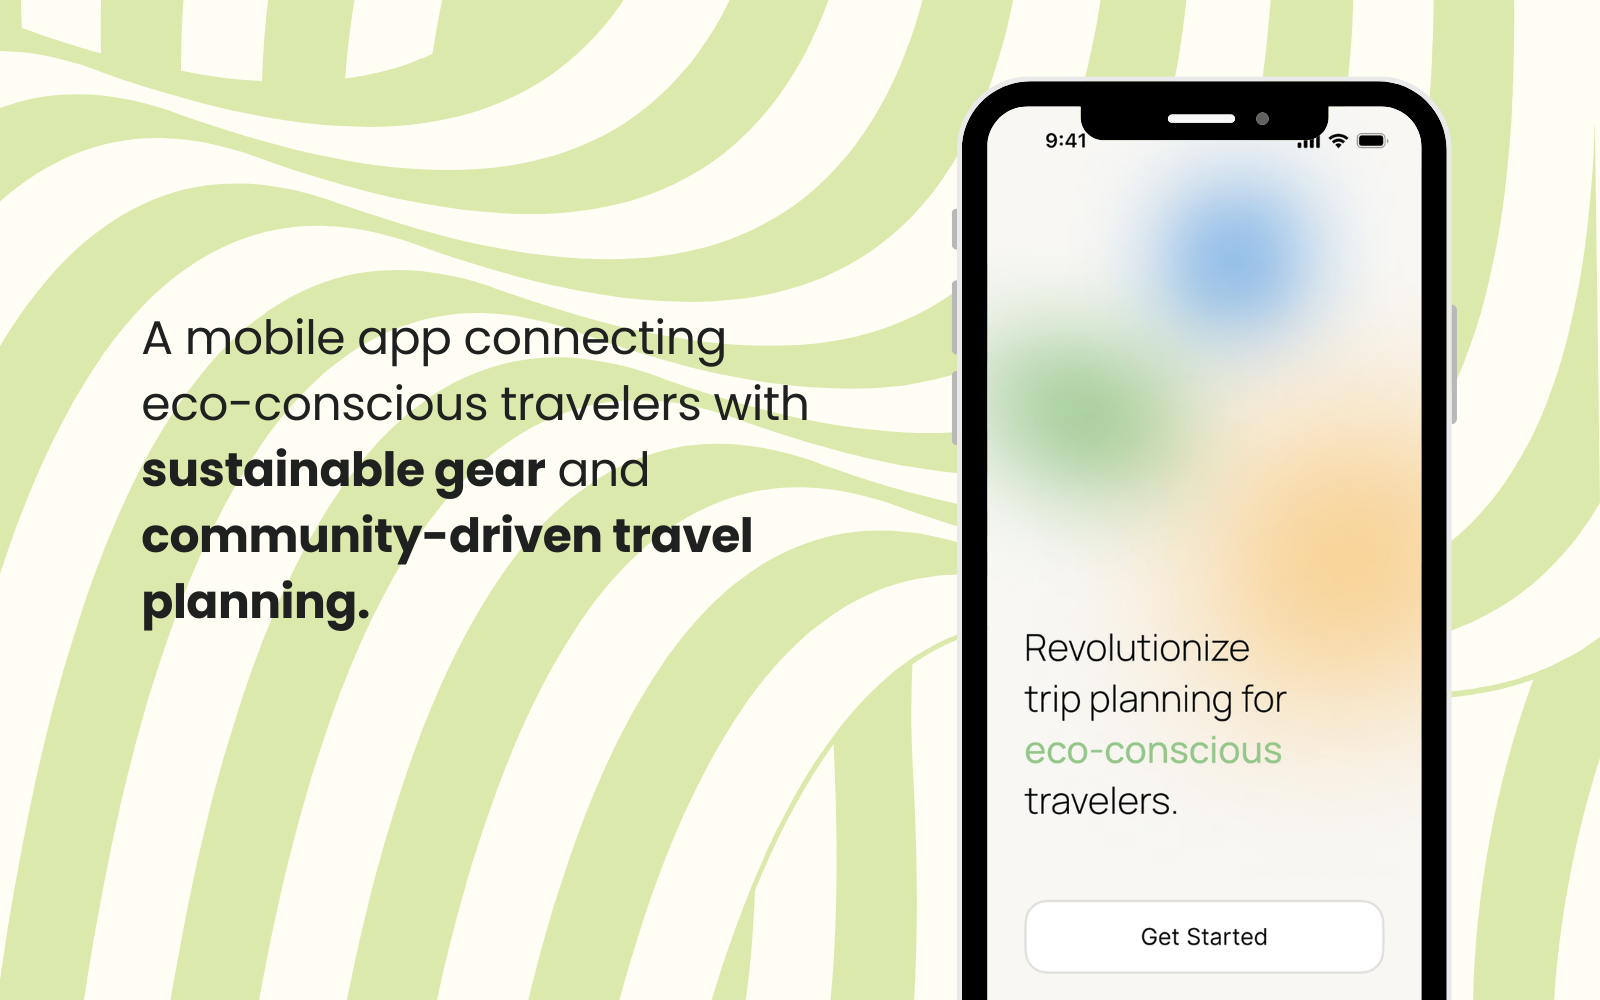
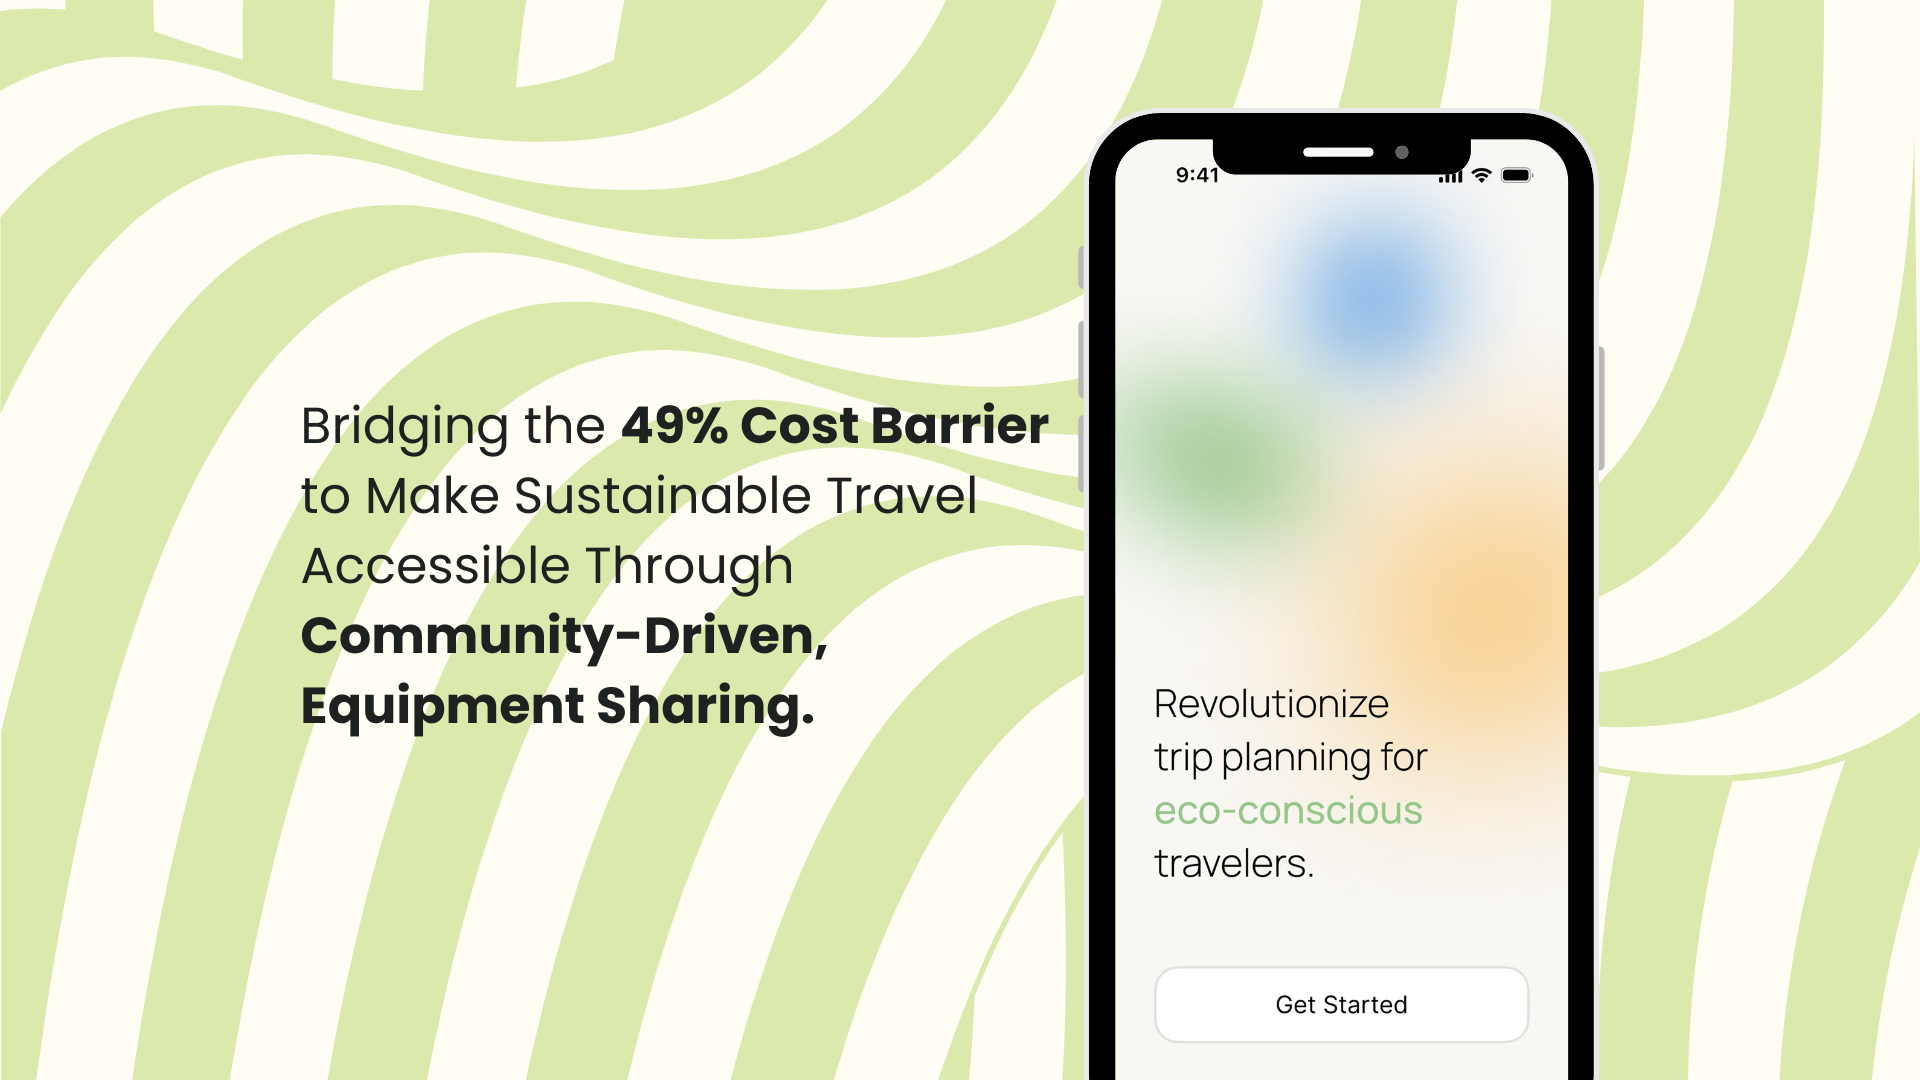
fixed Back to Work button

diff --git a/index.html b/index.html
@@ -140,21 +140,30 @@ nav.scrolled{background:rgba(233,230,224,.92);backdrop-filter:blur(14px);-webkit
 
 /* ── WORKS ── */
 #works{border-top:1px solid var(--border);padding:clamp(3rem,6vw,6rem) 2.5rem clamp(2rem,4vw,4rem);}
-.works-header{margin-bottom:clamp(3rem,5vw,5rem);}
+.works-header{margin-bottom:clamp(2rem,4vw,3rem);display:flex;align-items:center;justify-content:space-between;gap:1.5rem;flex-wrap:wrap;}
 .works-header-label{font-family:var(--serif);font-style:italic;font-size:clamp(1.3rem,2.2vw,2rem);border-bottom:1px solid var(--red);display:inline-block;padding-bottom:2px;}
-.project-row{border-top:1px solid var(--border);display:grid;grid-template-columns:1fr auto;align-items:center;gap:2rem;padding:clamp(1.4rem,2.5vw,2.2rem) clamp(1.5rem,3vw,3rem) clamp(1.4rem,2.5vw,2.2rem) clamp(1.2rem,2.5vw,2rem);text-decoration:none;position:relative;overflow:hidden;}
-.project-row:last-child{border-bottom:1px solid var(--border);}
-.project-row-wash{position:absolute;inset:0;background:var(--red);transform:scaleX(0);transform-origin:left center;transition:transform 0.75s cubic-bezier(0.4,0,0.2,1);pointer-events:none;z-index:0;}
-.project-row:hover .project-row-wash{transform:scaleX(1);}
-.project-row-left{display:flex;flex-direction:column;gap:.4rem;position:relative;z-index:1;}
+.works-header-actions{display:flex;align-items:center;gap:1rem;flex-wrap:wrap;}
+.works-hint{font-family:var(--sans);font-size:.75rem;letter-spacing:.12em;text-transform:uppercase;color:var(--dim);}
+.works-see-all{font-family:var(--sans);font-size:.82rem;font-weight:500;letter-spacing:.08em;text-transform:uppercase;background:none;border:none;border-bottom:1px solid rgba(224,58,14,.35);color:var(--red);padding:0 0 2px;cursor:none;transition:opacity .2s ease,border-color .2s ease;}
+.works-see-all:hover{opacity:.7;border-color:var(--red);}
+.works-rail{display:grid;grid-auto-flow:column;grid-auto-columns:minmax(450px,45vw);gap:4rem;overflow-x:auto;overflow-y:visible;scroll-snap-type:x proximity;padding-bottom:.2rem;scrollbar-width:thin;scrollbar-color:rgba(224,58,14,.35) transparent;}
+.works-rail::-webkit-scrollbar{height:8px;}
+.works-rail::-webkit-scrollbar-thumb{background:rgba(224,58,14,.3);border-radius:999px;}
+.works-rail.show-all{grid-auto-flow:row;grid-auto-columns:unset;grid-template-columns:repeat(3,minmax(0,1fr));overflow:visible;}
+.project-card{border:1px solid var(--border);display:flex;flex-direction:column;min-height:100%;min-height:530px;padding:1.5rem;text-decoration:none;position:relative;overflow:hidden;background:rgba(255,255,255,.4);scroll-snap-align:start;transition:border-color .3s ease,transform .35s var(--ease-out),box-shadow .35s var(--ease-out);}
+.project-row-wash{position:absolute;inset:0;background:var(--red);transform:translateY(100%);transition:transform 0.65s cubic-bezier(0.4,0,0.2,1);pointer-events:none;z-index:0;}
+.project-card:hover .project-row-wash{transform:translateY(0);}
+.project-row-left{display:flex;flex-direction:column;gap:.4rem;position:relative;z-index:1;flex:1;padding-top:1rem;}
 .project-meta{font-family:var(--sans);font-size:.68rem;font-weight:400;letter-spacing:.1em;text-transform:uppercase;color:var(--dim);transition:color 0.3s ease;}
-.project-title{font-family:var(--display);font-size:clamp(3rem,7vw,8rem);letter-spacing:.01em;line-height:.88;transition:color 0.3s ease,letter-spacing .35s var(--ease-out);}
-.project-desc{font-family:var(--sans);font-size:clamp(.85rem,1.2vw,1rem);font-weight:300;line-height:1.6;max-width:40ch;margin-top:.3rem;opacity:0;transform:translateY(6px);transition:opacity .35s ease .1s,transform .35s var(--ease-out) .1s,color 0.3s ease;}
-.project-row:hover .project-desc{opacity:1;transform:translateY(0);}
-.project-row:hover .project-meta,.project-row:hover .project-title,.project-row:hover .project-desc,.project-row:hover .project-arrow{color:var(--bg);}
-.project-row-right{display:flex;flex-direction:column;align-items:flex-end;gap:.8rem;flex-shrink:0;position:relative;z-index:1;}
-.project-arrow{font-family:var(--sans);font-size:.72rem;letter-spacing:.1em;text-transform:uppercase;color:var(--dim);transition:transform .3s var(--ease-spring),color 0.3s ease;}
-.project-row:hover .project-arrow{transform:translateX(6px);}
+.project-title{font-family:var(--display);font-size:clamp(2.4rem,5vw,4.8rem);letter-spacing:.01em;line-height:.9;transition:color 0.3s ease,letter-spacing .35s var(--ease-out);}
+.project-desc{font-family:var(--sans);font-size:clamp(.85rem,1.2vw,1rem);font-weight:300;line-height:1.6;max-width:40ch;margin-top:.3rem;color:var(--red);transition:color 0.3s ease;}
+.project-card:hover .project-meta,.project-card:hover .project-title,.project-card:hover .project-desc{color:var(--bg);}
+.project-row-right{display:flex;flex-direction:column;align-items:flex-start;gap:.8rem;position:relative;z-index:1;}
+.project-thumb{width:100%;aspect-ratio:4/3;border:1px solid var(--border);overflow:hidden;background:linear-gradient(145deg,#f7f4ef,#ebe5dc);box-shadow:0 12px 28px rgba(0,0,0,.08);transition:transform .45s var(--ease-out),border-color .3s ease,box-shadow .3s ease;}
+.project-thumb img{width:100%;height:100%;object-fit:cover;object-position:center;transition:transform .55s var(--ease-out);}
+.project-card:hover{transform:translateY(-6px);border-color:rgba(224,58,14,.22);box-shadow:0 20px 44px rgba(224,58,14,.12);}
+.project-card:hover .project-thumb{border-color:rgba(233,230,224,.35);box-shadow:0 18px 36px rgba(0,0,0,.15);}
+.project-card:hover .project-thumb img{transform:scale(1.04);}
 
 /* ── TOOLS — icon strip ── */
 #tools{border-top:1px solid var(--border);}
@@ -292,8 +301,8 @@ footer{border-top:1px solid var(--border);padding:1.8rem 2.5rem;display:flex;jus
   .tools-right{border-left:none;border-top:1px solid var(--border);}
   .hero-line,.hero-line-type{font-size:20vw;}
   .hero-photo{width:60%;}
-  .project-row{grid-template-columns:1fr;}
-  .project-row-right{align-items:flex-start;}
+  .works-rail{grid-auto-columns:minmax(300px,80vw);gap:1.4rem;}
+  .works-rail.show-all{grid-template-columns:1fr;}
   #hero{padding-top:7.5rem;min-height:auto;padding-bottom:3rem;}
   .hero-photo{position:relative;width:min(100%,520px);height:auto;order:-1;margin:0 auto 2rem;}
   .hero-photo img,.hero-photo-fallback{aspect-ratio:4/5;height:auto;}
@@ -319,9 +328,11 @@ footer{border-top:1px solid var(--border);padding:1.8rem 2.5rem;display:flex;jus
   .hero-type{padding-left:1rem;padding-right:1rem;margin-top:1rem;}
   .hero-line,.hero-line-type{font-size:22vw;line-height:.9;}
   .info-left,.info-right,.process-full-left,.process-full-right,.stat-block{padding-left:1rem;padding-right:1rem;}
-  .project-row{padding:1.2rem 0.9rem;}
   .project-title{font-size:clamp(2.1rem,14vw,3.6rem);}
-  .project-desc{opacity:1;transform:none;}
+  .works-header{align-items:flex-start;}
+  .works-header-actions{width:100%;justify-content:space-between;}
+  .works-rail{grid-auto-columns:minmax(280px,88vw);gap:1.2rem;}
+  .project-card{padding:.9rem;min-height:620px;}
   .tools-strip-wrap{padding-top:2rem;padding-bottom:2rem;}
   .tool-icon-item,.tool-icon-placeholder{width:104px;min-width:104px;max-width:104px;height:104px;}
   .tool-icon-placeholder{background:#ffffff;}
@@ -353,7 +364,7 @@ footer{border-top:1px solid var(--border);padding:1.8rem 2.5rem;display:flex;jus
 <nav id="main-nav">
   <a href="#hero" class="nav-logo">TITIXA KAMANI</a>
   <ul class="nav-links">
-    <li><a href="#info">Info</a></li>
+    <li><a href="#info">Home</a></li>
     <li><a href="#works">Works</a></li>
     <li><a href="cv.html" class="cs-link">CV</a></li>
     <li><button id="nav-contact-btn">Contact</button></li>
@@ -429,6 +440,60 @@ footer{border-top:1px solid var(--border);padding:1.8rem 2.5rem;display:flex;jus
   </div>
 </section>
 
+<!-- WORKS -->
+<section id="works">
+  <div class="works-header reveal">
+    <span class="works-header-label">Works</span>
+    <div class="works-header-actions">
+      <button class="works-see-all" id="works-see-all" type="button" aria-expanded="false">See All</button>
+    </div>
+  </div>
+
+  <div class="works-rail" id="works-rail">
+    <a href="case-study-3.html" class="project-card reveal cs-link">
+      <div class="project-row-wash"></div>
+      <div class="project-row-right">
+        <div class="project-thumb">
+          <img src="HistARicThumbnail.png" alt="Histaric case study thumbnail" onerror="this.style.display='none';this.parentElement.style.background='#ebe5dc';"/>
+        </div>
+      </div>
+      <div class="project-row-left">
+        <span class="project-meta">01 · Co-Designer · HCI II Course</span>
+        <span class="project-title">HISTARIC</span>
+        <span class="project-desc">An AR heritage experience merging spatial interaction with cultural storytelling.</span>
+      </div>
+    </a>
+
+    <a href="case-study-2.html" class="project-card reveal d1 cs-link">
+      <div class="project-row-wash"></div>
+      <div class="project-row-right">
+        <div class="project-thumb">
+          <img src="Pfandbank casestudy.png" alt="Pfandbank case study thumbnail" onerror="this.style.display='none';this.parentElement.style.background='#ebe5dc';"/>
+        </div>
+      </div>
+      <div class="project-row-left">
+        <span class="project-meta">02 · Lead Designer · Design Director</span>
+        <span class="project-title">PFANDBANK</span>
+        <span class="project-desc">Redesigning Germany's deposit-return system from field research to shipped design system.</span>
+      </div>
+    </a>
+
+    <a href="case-study-1.html" class="project-card reveal d2 cs-link">
+      <div class="project-row-wash"></div>
+      <div class="project-row-right">
+        <div class="project-thumb">
+          <img src="eco-travel-aid-thumbnail.png" alt="Eco Travel-Aid case study thumbnail" onerror="this.style.display='none';this.parentElement.style.background='#ebe5dc';"/>
+        </div>
+      </div>
+      <div class="project-row-left">
+        <span class="project-meta">03 · UX Designer · Mobile App</span>
+        <span class="project-title">ECO TRAVEL-AID</span>
+        <span class="project-desc">A sustainable travel companion from persona research to interactive prototype.</span>
+      </div>
+    </a>
+  </div>
+</section>
+
 <!-- STATS STRIP -->
 <section id="stats-strip">
   <div class="stat-block" id="stat-1">
@@ -439,43 +504,6 @@ footer{border-top:1px solid var(--border);padding:1.8rem 2.5rem;display:flex;jus
     <span class="stat-number">2+</span>
     <span class="stat-label">Years in Design Practice</span>
   </div>
-</section>
-
-<!-- WORKS -->
-<section id="works">
-  <div class="works-header reveal">
-    <span class="works-header-label">Select Works</span>
-  </div>
-
-  <a href="case-study-2.html" class="project-row reveal cs-link">
-    <div class="project-row-wash"></div>
-    <div class="project-row-left">
-      <span class="project-meta">01 · Lead Designer · Design Director</span>
-      <span class="project-title">PFANDBANK</span>
-      <span class="project-desc">Redesigning Germany's deposit-return system from field research to shipped design system.</span>
-    </div>
-    <div class="project-row-right"><span class="project-arrow">View Case →</span></div>
-  </a>
-
-  <a href="case-study-3.html" class="project-row reveal d1 cs-link">
-    <div class="project-row-wash"></div>
-    <div class="project-row-left">
-      <span class="project-meta">02 · Co-Designer · HCI II Course</span>
-      <span class="project-title">HISTARIC</span>
-      <span class="project-desc">An AR heritage experience merging spatial interaction with cultural storytelling.</span>
-    </div>
-    <div class="project-row-right"><span class="project-arrow">View Case →</span></div>
-  </a>
-
-  <a href="case-study-1.html" class="project-row reveal d2 cs-link">
-    <div class="project-row-wash"></div>
-    <div class="project-row-left">
-      <span class="project-meta">03 · UX Designer · Mobile App</span>
-      <span class="project-title">ECO TRAVEL-AID</span>
-      <span class="project-desc">A sustainable travel companion from persona research to interactive prototype.</span>
-    </div>
-    <div class="project-row-right"><span class="project-arrow">View Case →</span></div>
-  </a>
 </section>
 
 <!-- TOOLS + PROCESS -->
@@ -657,6 +685,7 @@ const loader=document.getElementById('loader'),lPct=document.getElementById('loa
       nav=document.getElementById('main-nav'),heroEmail=document.getElementById('hero-email'),
       heroSub=document.getElementById('hero-sub'),hl1=document.getElementById('hl1'),
       heroTw=document.getElementById('hero-tw');
+if(window.location.hash) loader.style.display='none';
 let p=0;
 const lt=setInterval(()=>{
   p+=Math.random()*20+8;
@@ -701,7 +730,7 @@ document.querySelectorAll('a,button').forEach(el=>{
   el.addEventListener('mouseenter',()=>{document.body.classList.remove('cur-hover');document.body.classList.add('cur-link');});
   el.addEventListener('mouseleave',()=>document.body.classList.remove('cur-link'));
 });
-document.querySelectorAll('.project-row,.tools-list li').forEach(el=>{
+document.querySelectorAll('.project-card,.tools-list li').forEach(el=>{
   el.addEventListener('mouseenter',()=>{document.body.classList.remove('cur-link');document.body.classList.add('cur-hover');});
   el.addEventListener('mouseleave',()=>document.body.classList.remove('cur-hover'));
 });
@@ -842,54 +871,6 @@ if(toolsStrip){
   iconObs.observe(toolsStrip);
 }
 
-/* ── MY DESIGN PROCESS — HORIZONTAL TIMELINE ── */
-const processRight=document.getElementById('tools-right');
-if(processRight){
-  const heading=document.getElementById('process-heading');
-  const bigTitle=document.getElementById('process-big-title');
-  const sub=document.getElementById('process-sub');
-  const timeline=document.getElementById('process-timeline');
-  const lineFill=document.getElementById('process-line-fill');
-  const stepRows=processRight.querySelectorAll('.process-step-row');
-  let done=false;
-
-  const processObs=new IntersectionObserver(entries=>{
-    entries.forEach(e=>{
-      if(e.isIntersecting&&!done){
-        done=true;
-        if(heading) heading.classList.add('visible');
-        if(bigTitle) bigTitle.classList.add('visible');
-        if(sub) sub.classList.add('visible');
-        timeline.classList.add('visible');
-
-        // stagger step rows in
-        stepRows.forEach((row,i)=>{
-          setTimeout(()=>row.classList.add('visible'),100+i*160);
-        });
-
-        // draw the line after rows start appearing
-        setTimeout(()=>{
-          if(lineFill) lineFill.classList.add('go');
-        },300);
-
-        // cycle active highlight through steps
-        setTimeout(()=>{
-          let cur=0;
-          stepRows[cur].classList.add('active');
-          setInterval(()=>{
-            stepRows.forEach(r=>r.classList.remove('active'));
-            cur=(cur+1)%stepRows.length;
-            stepRows[cur].classList.add('active');
-          },1200);
-        },500+stepRows.length*160);
-
-        processObs.disconnect();
-      }
-    });
-  },{threshold:0.25});
-  processObs.observe(processRight);
-}
-
 /* ── CONTACT POPUP ── */
 const overlay = document.getElementById('contact-overlay');
 const contactPopup = document.getElementById('contact-popup');
@@ -911,11 +892,21 @@ document.addEventListener('DOMContentLoaded', function() {
   const contactSectionBtn = document.getElementById('contact-section-btn');
   const footerContactBtn = document.getElementById('footer-contact-btn');
   const contactCloseBtn = document.getElementById('contact-close');
+  const worksSeeAllBtn = document.getElementById('works-see-all');
+  const worksRail = document.getElementById('works-rail');
   
   if (navContactBtn) navContactBtn.addEventListener('click', openContact);
   if (contactSectionBtn) contactSectionBtn.addEventListener('click', openContact);
   if (footerContactBtn) footerContactBtn.addEventListener('click', openContact);
   if (contactCloseBtn) contactCloseBtn.addEventListener('click', closeContact);
+  if (worksSeeAllBtn && worksRail) {
+    worksSeeAllBtn.addEventListener('click', () => {
+      const expanded = worksRail.classList.toggle('show-all');
+      worksSeeAllBtn.textContent = expanded ? 'Back To Scroll' : 'See All';
+      worksSeeAllBtn.setAttribute('aria-expanded', expanded ? 'true' : 'false');
+      if (!expanded) worksRail.scrollTo({ left: 0, behavior: 'smooth' });
+    });
+  }
   
   overlay.addEventListener('click', e => {
     if(e.target === overlay) closeContact();
@@ -953,6 +944,14 @@ document.querySelectorAll('a[href^="#"]').forEach(a=>{
     const t=document.querySelector(a.getAttribute('href'));
     if(t){e.preventDefault();t.scrollIntoView({behavior:'smooth'});}
   });
+});
+
+/* ── SCROLL TO HASH ON LOAD ── */
+window.addEventListener('load',()=>{
+  if(window.location.hash){
+    const t=document.querySelector(window.location.hash);
+    if(t) setTimeout(()=>t.scrollIntoView({behavior:'smooth'}),100);
+  }
 });
 </script>
 </body>

diff --git a/case-study-1.html b/case-study-1.html
@@ -14,7 +14,7 @@
     <!-- Back Bar -->
     <div class="cs-back-bar">
       <span class="logo-text"><strong>T. Kamani</strong></span>
-      <a class="cs-back-btn" href="index.html#case-studies">&#8592; Back to Work</a>
+      <a class="cs-back-btn" href="index.html#works">&#8592; Back to Work</a>
     </div>
     <nav class="case-floating-nav case-floating-glass" aria-label="Case Study Navigation">
       <a href="#overview">Overview</a>

diff --git a/case-study-2.html b/case-study-2.html
@@ -725,7 +725,7 @@
 
 <header class="pb-topbar">
   <span class="logo-text"><strong>T. Kamani</strong></span>
-  <a class="pb-back-btn" href="index.html#case-studies">&#8592; Back to Work</a>
+  <a class="pb-back-btn" href="index.html#works">&#8592; Back to Work</a>
 </header>
 <nav class="pb-floating-nav" aria-label="Case Study Navigation">
   <a href="#overview">Overview</a>

diff --git a/case-study-3.html b/case-study-3.html
@@ -531,7 +531,7 @@
 
 <header class="cs3-topbar">
   <span class="logo-text"><strong>T. Kamani</strong></span>
-  <a class="cs3-back-btn" href="index.html#case-studies">&#8592; Back to Work</a>
+  <a class="cs3-back-btn" href="index.html#works">&#8592; Back to Work</a>
 </header>
 
 <header id="overview" class="hero">
